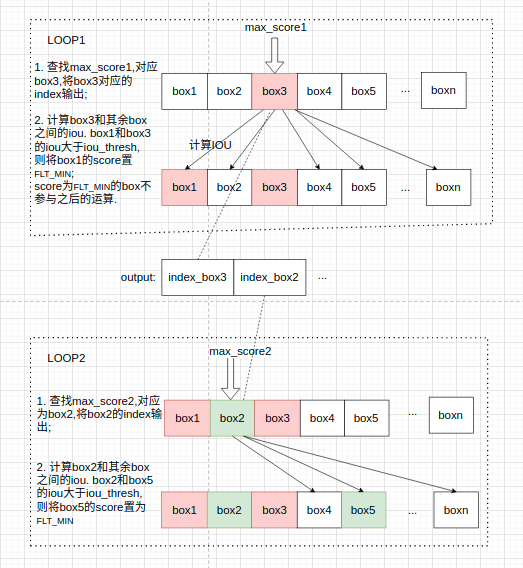
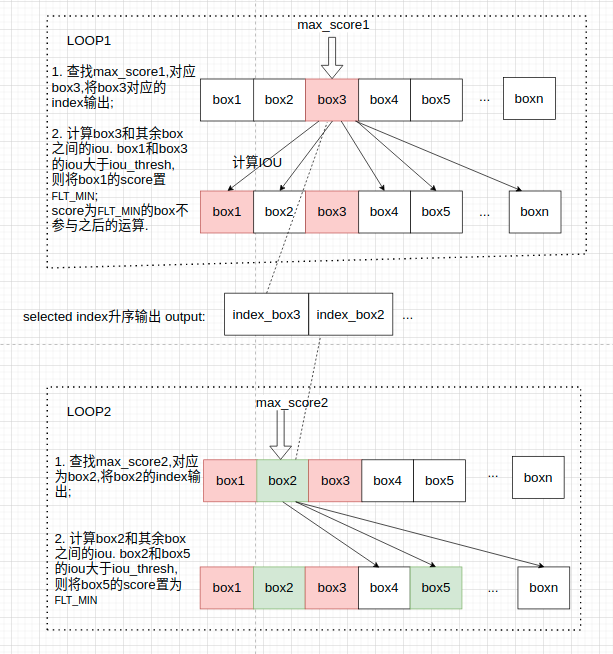
[CNNLCORE-6878]feat(poly_nms):modify design doc.

diff --git a/docs/bangc-docs/poly_nms/poly_nms.md b/docs/bangc-docs/poly_nms/poly_nms.md
@@ -88,15 +88,24 @@
 ```py
 def test_nms():
     nms_thresh = 0.1
-    # #   box1和 box2，box3都有交集,且iou>0.1 输出为 [0]
-    # dets = [[0, 0, 1, 0, 1, 1, 0, 1, 3], [0.5, 0.5, 1.5, 0.5, 1.5, 1.5, 0.5, 1.5, 1],[0, 0, 0.5, 0, 0.5, 0.5, 0, 0.5, 1]]
+
+    # 输出为[0]
+    # dets = [[0, 0, 1, 0, 1, 1, 0, 1, 3]]
+
+    # #   box3和 box1，box2没有交集，box2和box3有交集,且iou>0.1, 输出结果为[1, 2]
+    # dets = [[0, 0, 1, 0, 1, 1, 0, 1, 1], [0.5, 0.5, 1.5, 0.5, 1.5, 1.5, 0.5, 1.5, 2],[0, 0, -0.5, 0, -0.5, -0.5, 0, -0.5, 3]]
+
     
-    # #  box1和 box2，box3都没有交集 输出为[0,1,2],按照socre降序输出
-    # dets = [[0, 0, 1, 0, 1, 1, 0, 1, 3], [1.5, 1.5, 2.5, 1.5, 2.5, 2.5, 1.5, 2.5, 2],[0, 0, -0.5, 0, -0.5, -0.5, 0, -0.5, 1]]
+    # #  box1，box2， box3 均无交集，输出为[0, 1, 2]
+    # dets =  [[0, 0, 1, 0, 1, 1, 0, 1, 3], [0.5, 0.5, 1.5, 0.5, 1.5, 1.5, 0.5, 1.5, 2],[0, 0, 0.5, 0, 0.5, 0.5, 0, 0.5, 1]]
+
  
-    # #  box1和 box2有交集.且iou=0.1428 > nms_thresh(0.1)，box1,box2都和box3没交集 输出为[0,2]
-    # dets = [[0, 0, 1, 0, 1, 1, 0, 1, 3], [0.5, 0.5, 1.5, 0.5, 1.5, 1.5, 0.5, 1.5, 1],[0, 0, -0.5, 0, -0.5, -0.5, 0, -0.5, 1]]
+    # #  box1和 box2有交集.且iou=0.1428 > nms_thresh(0.1)，box1,box2都和box3没交集 输出为[0, 2]
+    # dets = [[0, 0, 1, 0, 1, 1, 0, 1, 3], [0.5, 0.5, 1.5, 0.5, 1.5, 1.5, 0.5, 1.5, 2],[0, 0, -0.5, 0, -0.5, -0.5, 0, -0.5, 1]]
    
+    # 输入包含inf: box1和box2相交， box3和box1，box2不相交，输出[0,2]
+    dets = [[0, 0, 2, 0, 2, 2, 0, 2, np.inf], [1.5, 1.5, 2.5, 1.5, 2.5, 2.5, 1.5, 2.5, 1],[0, 0, -0.5, 0, -0.5, -0.5, 0, -0.5, 3]]
+
     # dets = np.array(dets)
     keep = py_cpu_nms_poly(dets, nms_thresh)
     print(keep) 
@@ -185,17 +194,17 @@ mluOpStatus_t MLUOP_WIN_API mluOpPnms(mluOpHandle_t handle,
 
 ### 3.1 实现方案
 
-`poly_nms`(polygan nms)算子用于计算多边形非极大值抑制, 删除冗余的多边形框.
+`poly_nms`(polygan nms)算子用于计算多边形非极大值抑制, 删除冗余的多边形框。
 
 poly_nms算子有两个输入，input1是2维Tensor，包含四边形的四个顶点坐标及其对应的score，具体信息为：
 [[x1, y1, x2, y2, x3, y3, x4, y4, score],...];
 input2 是float数，是给定的iou的阈值iou_thresh。
 
-- **cpu计算方法**
+- **poly_nms算子CPU实现**
 1. 将scores降序排序;
 2. 用score最大的box分别和其余的box做iou计算, 如果iou大于iou_thresh,认为这两个box相交,删除score值小的box
 3. 再选取次大的score, 重复第二步计算
-4. 输出剩于box的index(按照score降序输出)
+4. 输出剩于box的index(升序输出)
 
 - **MLU实现步骤**
 1. 借助workspace将输入box_data由Nx9转置为9xN; (提前将所有数据转置,是因为在第二步计算max_score时,需要重复load所有数据计算scores最大值,计算过程中每次repeat时load的数据量较小,需要重复多次load并进行转置计算,对性能有损耗,故需提前转置。)
@@ -205,7 +214,7 @@ input2 是float数，是给定的iou的阈值iou_thresh。
 3. 保存max_score对应的index到nram_save中,保存数量大于nram_save空间时, 将nram_save数据copy到device端后重新保存;
 4. 计算不规则四边形iou：计算max_score对应的box和其他的boxes的iou，如果iou > iou_thresh, 则认为该box和max_box交集过大，把该box对应的score置为FLT_MIN；
 5. 第4步计算完后，在剩余scores中重新计算max_score，如果max_score <= FLT_MIN,则计算完成，否则重复第二步；
-6. 按照计算max_score的先后顺序，输出所有的max_score对应box的index，及index的数量；
+6. copy所有的max_score对应的index到output，对output做快速排序，输出排序后的index及index数量
 
 - **实现流程图**
 
